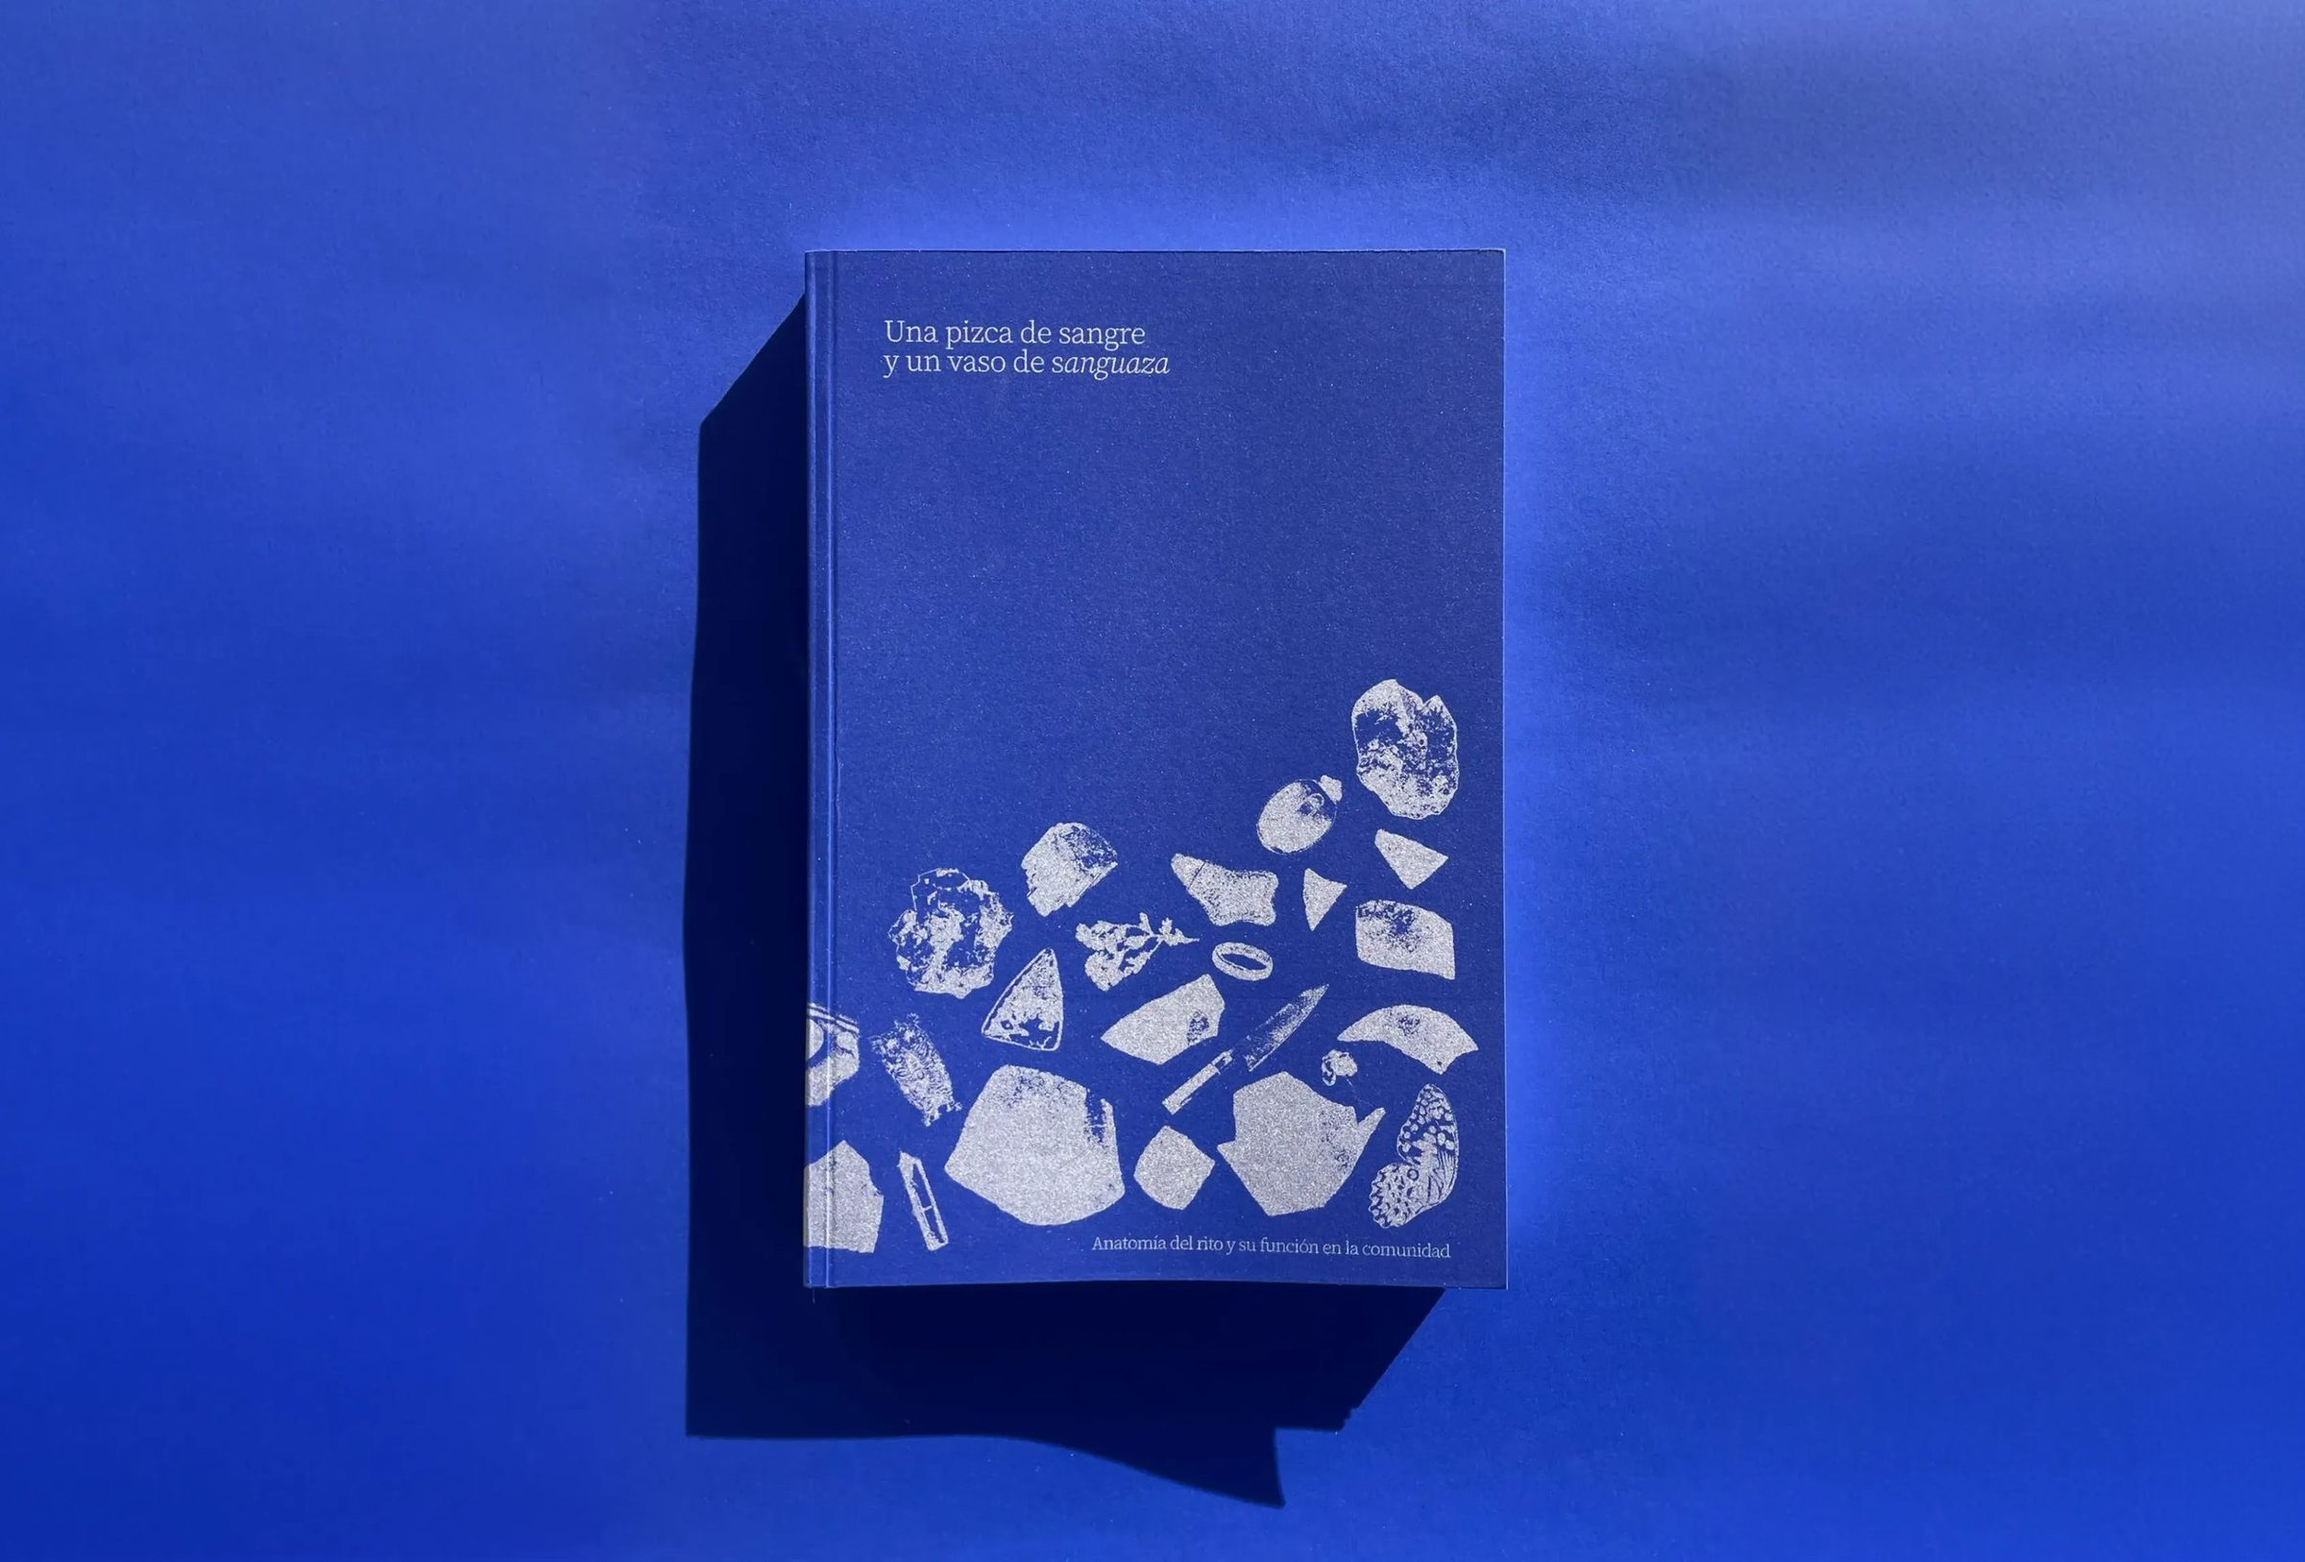
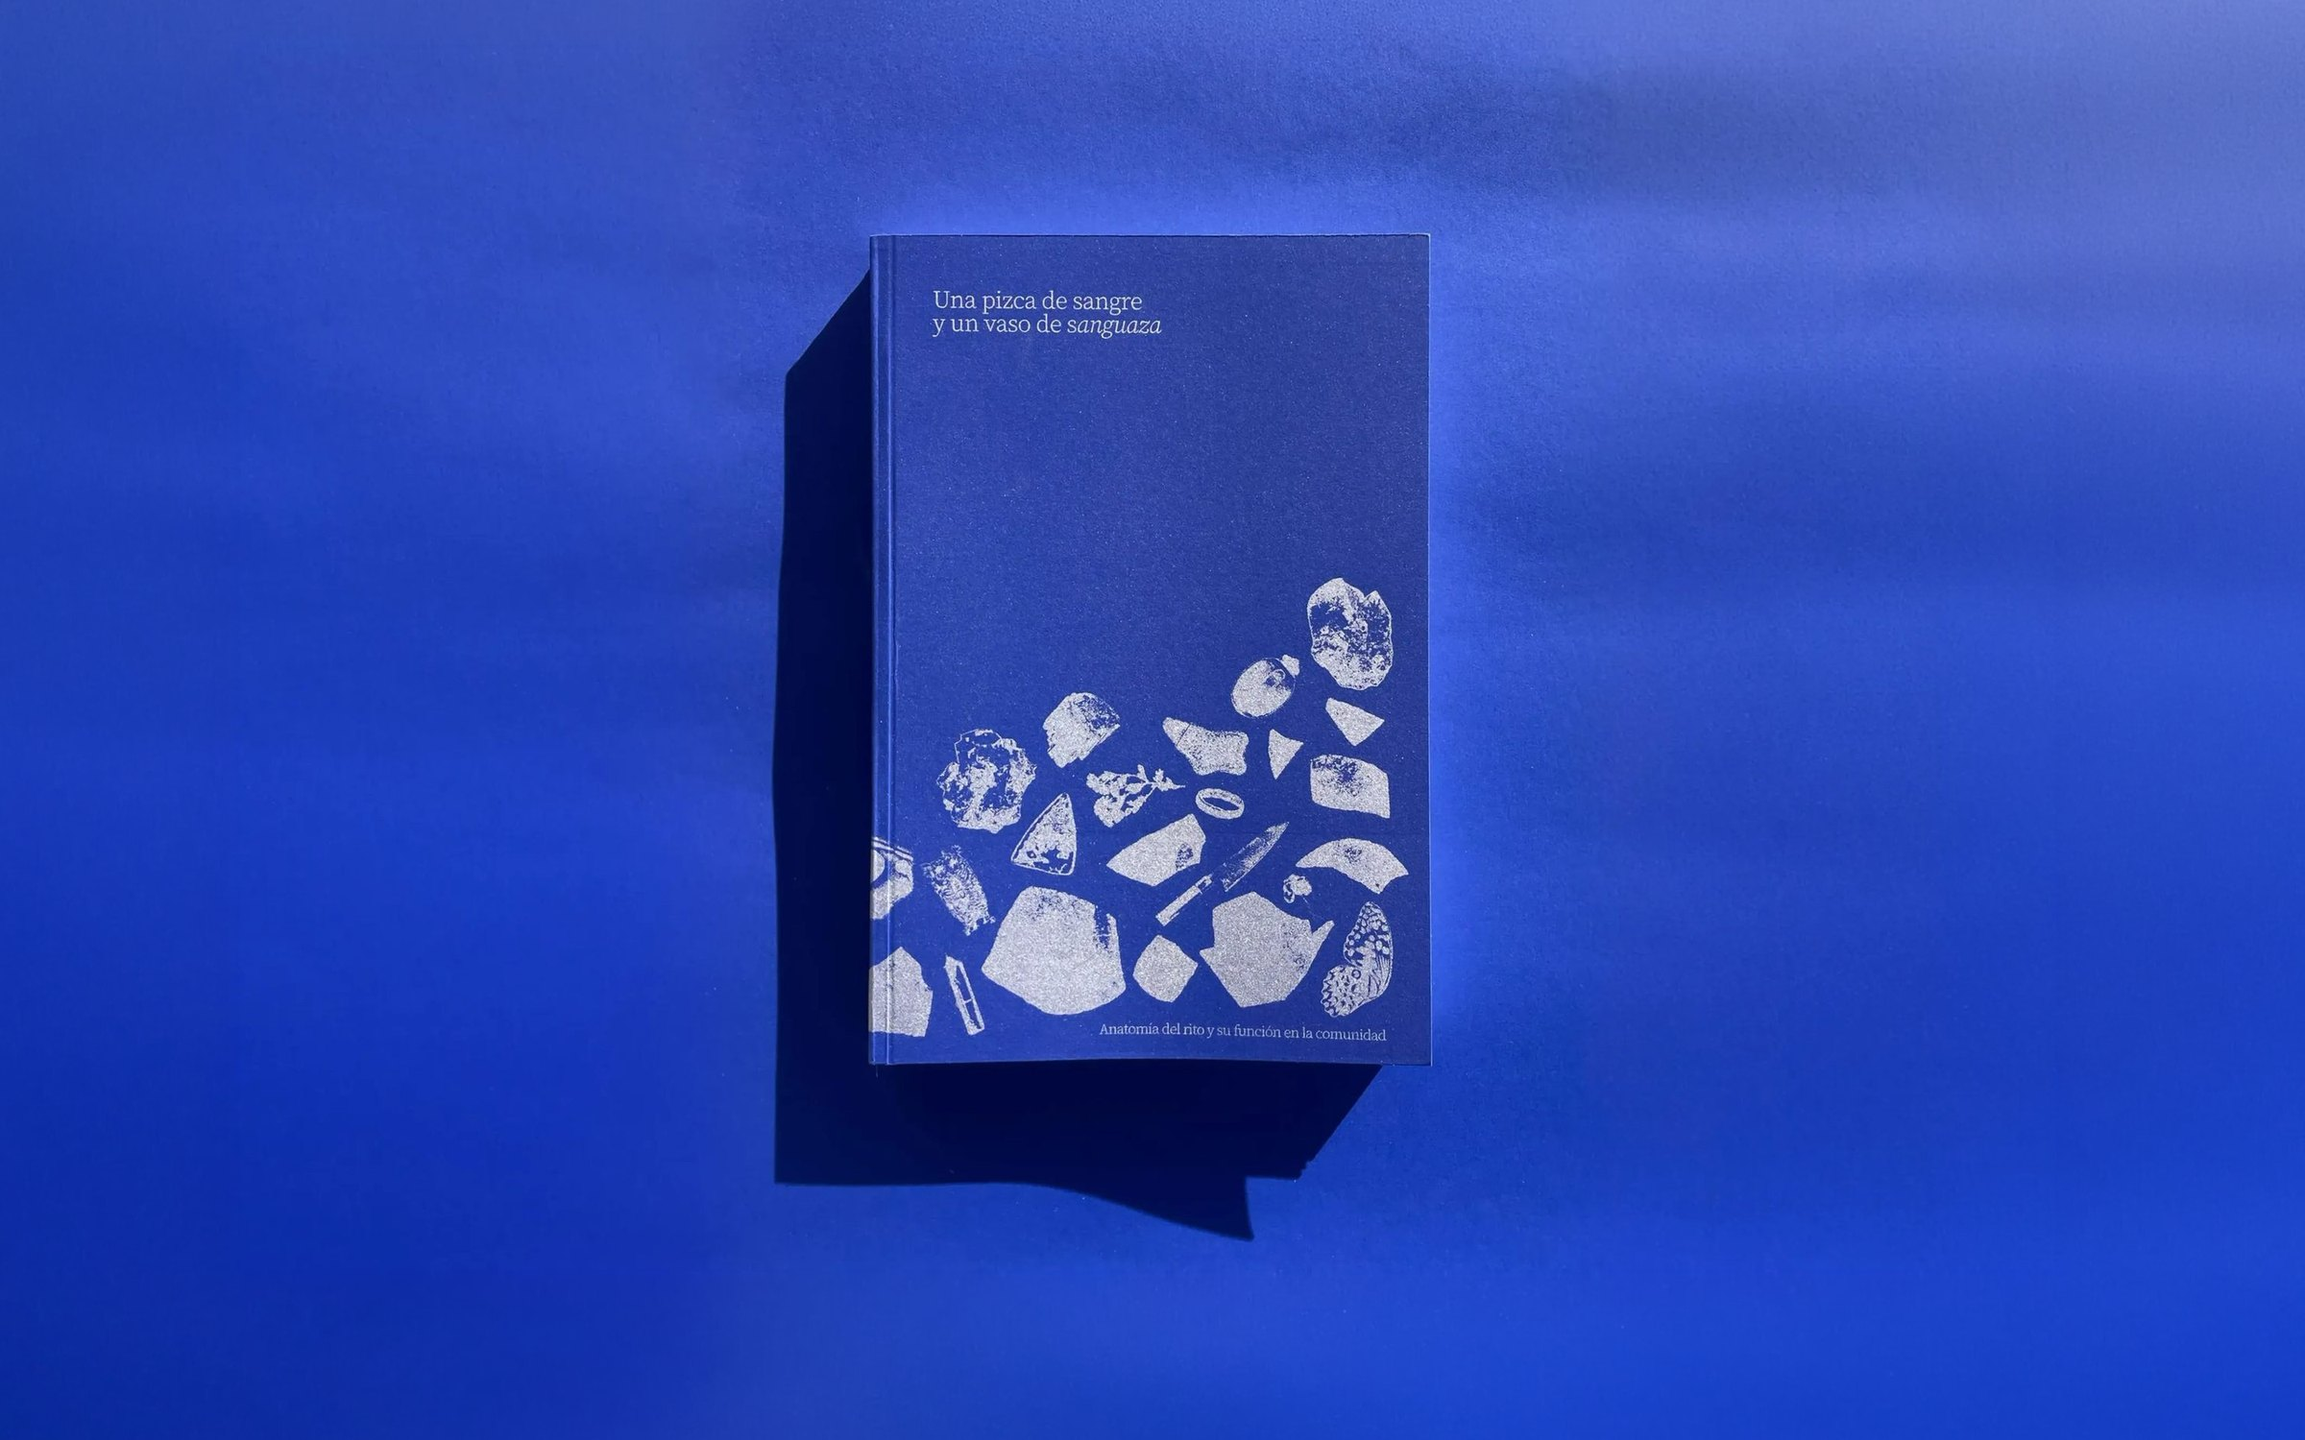
Sanguaza: portada con más cartulina alrededor del libro (expansión generativa en Photoshop) para que no se corte
Claude-Session: https://claude.ai/code/session_016zYrLrGnErsRoDhfWeEpxu

Changed region(s): [[0.2812, 0.1533, 0.6875, 0.9813], [0.6875, 0.8587, 0.75, 0.8893], [0.6562, 0.0307, 0.6875, 0.0613]]

diff --git a/site/css/case.css b/site/css/case.css
@@ -277,9 +277,9 @@ body[data-page] > main { flex: 1 0 auto; }
   /* Nebular: encuadre en la revista roja */
   .case-hero > img[src*="nebular-composicion"], .case-next .next-img img[src*="nebular-composicion"] { object-position: 0% 50% !important; }
   /* Sanguaza y POTRA: portada más baja, la imagen entera a lo ancho y la franja debajo */
-  .case-hero:has(> img[src*="libro-centrado"]) { height: calc(100vw / 1.475 + 96px); min-height: 0; }
-  .case-hero > img[src*="libro-centrado"] { height: calc(100vw / 1.475); bottom: auto; }
-  .case-next .next-img img[src*="libro-centrado"] { height: calc(100vw / 1.475); }
+  .case-hero:has(> img[src*="libro-centrado"]) { height: calc(100vw / 1.6 + 96px); min-height: 0; }
+  .case-hero > img[src*="libro-centrado"] { height: calc(100vw / 1.6); bottom: auto; }
+  .case-next .next-img img[src*="libro-centrado"] { height: calc(100vw / 1.6); }
   .case-hero:has(> img[src*="home-crop"]) { height: calc(100vw / 2.067 + 96px); min-height: 0; }
   .case-hero > img[src*="home-crop"] { height: calc(100vw / 2.067); bottom: auto; }
   .case-next .next-img img[src*="home-crop"] { height: calc(100vw / 2.067); }
